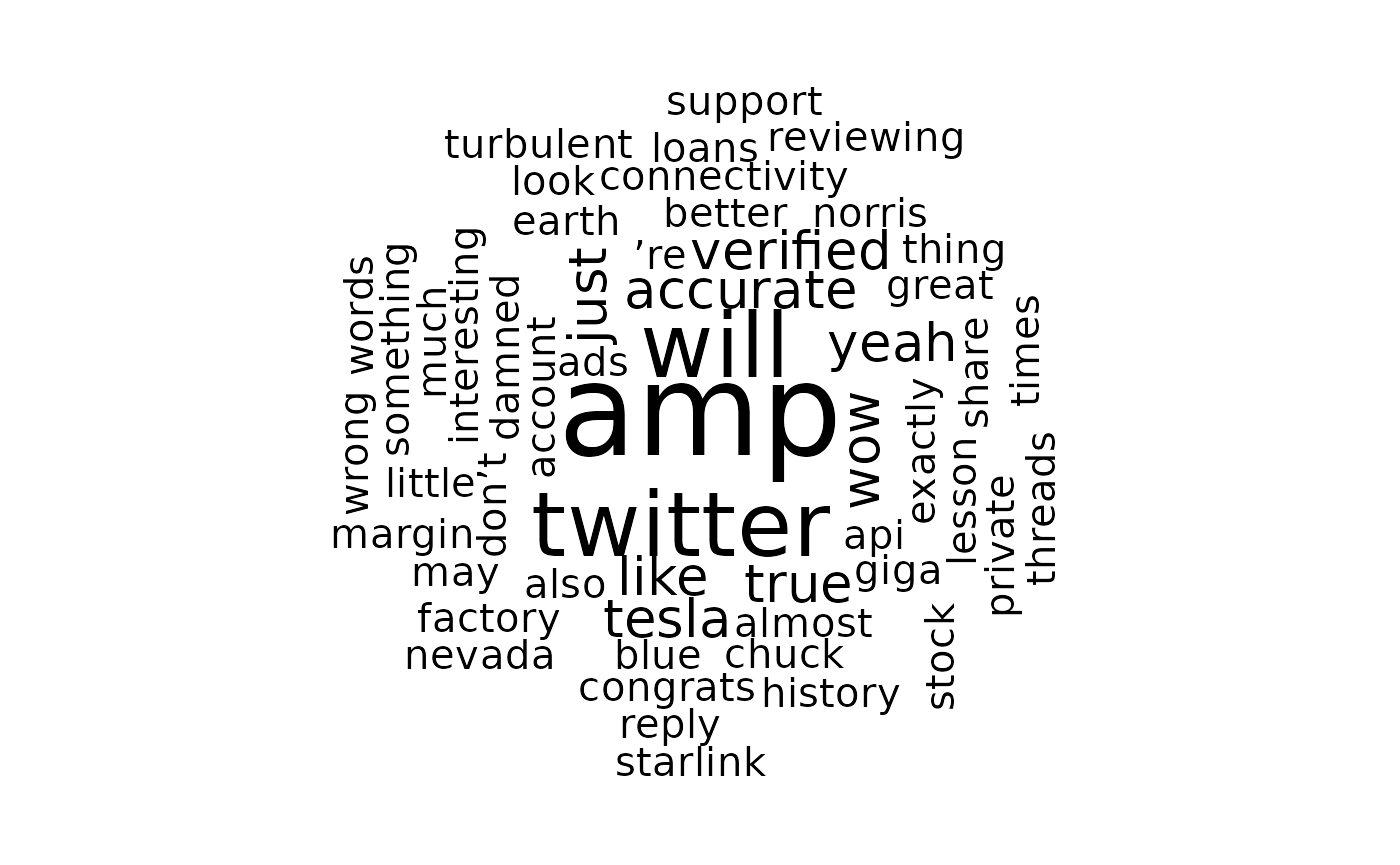
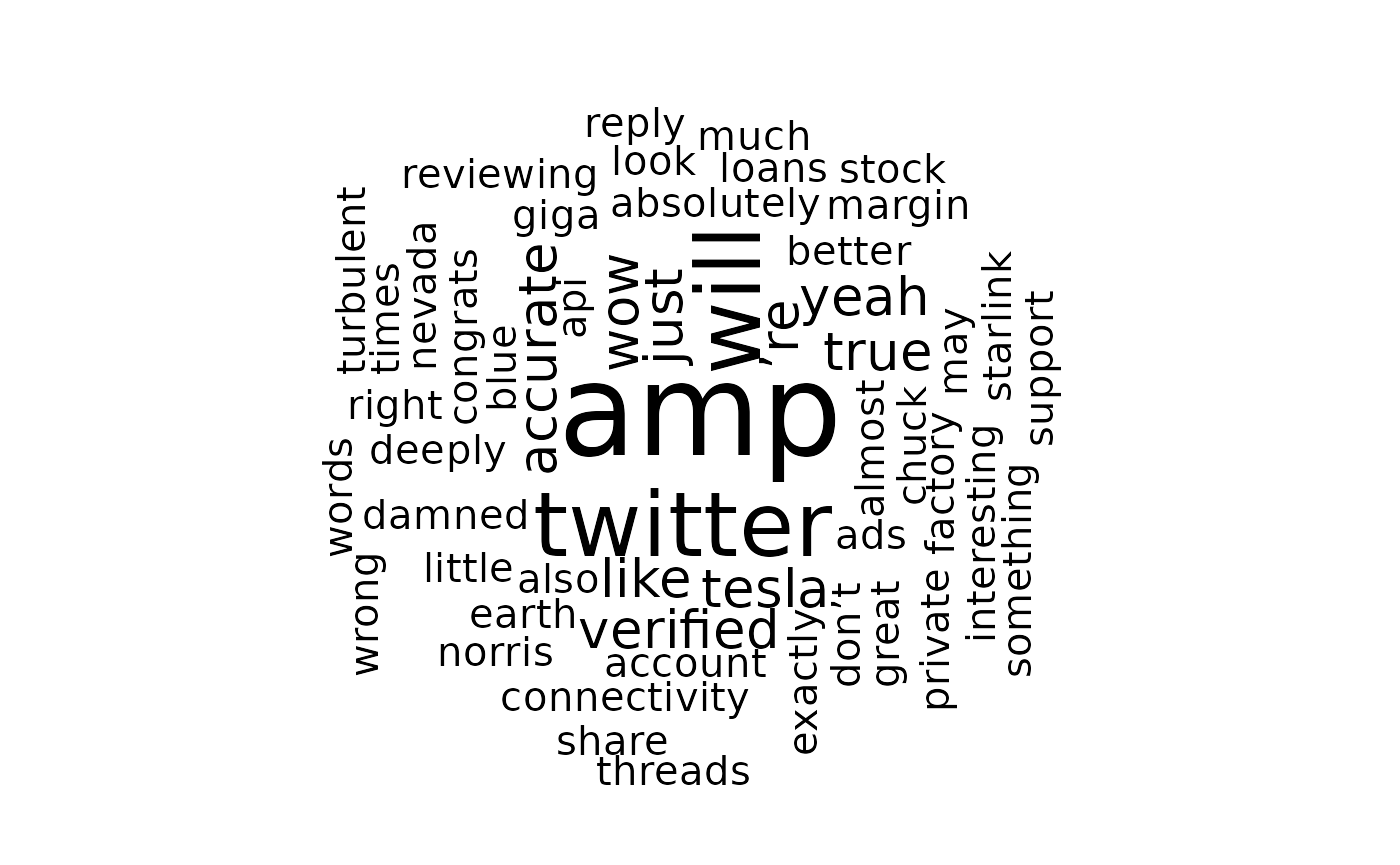
Deploying to gh-pages from @ UBC-MDS/twitterAnalysis@093b3f21f346639ae8859c794773d59e68ed3482 🚀

Changed region(s): [[0.215, 0.0936, 0.7679, 0.9052]]

diff --git a/articles/twitterAnalysis.html b/articles/twitterAnalysis.html
@@ -132,44 +132,44 @@ each other.</p>
 <span><span class="co">#&gt; [1] "Using direct authentication"</span></span>
 <span><span class="fu"><a href="https://rdrr.io/r/utils/head.html" class="external-link">head</a></span><span class="op">(</span><span class="va">elon_df</span><span class="op">)</span></span>
 <span><span class="co">#&gt;   screenName                  id             created favoriteCount retweetCount</span></span>
-<span><span class="co">#&gt; 1   elonmusk 1621555189806399488 2023-02-03 17:04:18         49911         3537</span></span>
-<span><span class="co">#&gt; 2   elonmusk 1621546844882079744 2023-02-03 16:31:09          4188          477</span></span>
-<span><span class="co">#&gt; 3   elonmusk 1621544996167122944 2023-02-03 16:23:48         36125         2701</span></span>
-<span><span class="co">#&gt; 4   elonmusk 1621544497388875777 2023-02-03 16:21:49        170878        16250</span></span>
-<span><span class="co">#&gt; 5   elonmusk 1621532990676533249 2023-02-03 15:36:06         11411          651</span></span>
-<span><span class="co">#&gt; 6   elonmusk 1621426702294609921 2023-02-03 08:33:45          2447          183</span></span>
-<span><span class="co">#&gt;                                                                                                                                           text</span></span>
-<span><span class="co">#&gt; 1 @cb_doge @mayemusk @Tesla @Twitter More to come on this front. Twitter needs to be where a creator is most highly r… https://t.co/4LvNaVOOux</span></span>
-<span><span class="co">#&gt; 2                                @firesideint Twitter’s legacy Blue Verified is unfortunately deeply corrupted, so will sunset in a few months</span></span>
-<span><span class="co">#&gt; 3                                                                    To be eligible, the account must be a subscriber to Twitter Blue Verified</span></span>
-<span><span class="co">#&gt; 4                                       Starting today, Twitter will share ad revenue with creators for ads that appear in their reply threads</span></span>
-<span><span class="co">#&gt; 5                                                                                                                                 @mtaibbi Wow</span></span>
-<span><span class="co">#&gt; 6                         @PepitoTheCat @BillyM2k @ericnakagawa I guess we could give all Verified users access to the API for posts like this</span></span></code></pre></div>
+<span><span class="co">#&gt; 1   elonmusk 1621655873641930752 2023-02-03 23:44:23           503           29</span></span>
+<span><span class="co">#&gt; 2   elonmusk 1621654211908997121 2023-02-03 23:37:47          7381          431</span></span>
+<span><span class="co">#&gt; 3   elonmusk 1621653950947799042 2023-02-03 23:36:45         55097         4495</span></span>
+<span><span class="co">#&gt; 4   elonmusk 1621634735582875648 2023-02-03 22:20:24          4518          219</span></span>
+<span><span class="co">#&gt; 5   elonmusk 1621626697320923136 2023-02-03 21:48:27         24879         1125</span></span>
+<span><span class="co">#&gt; 6   elonmusk 1621555189806399488 2023-02-03 17:04:18         60571         4343</span></span>
+<span><span class="co">#&gt;                                                                                                                                             text</span></span>
+<span><span class="co">#&gt; 1                                                                                                                   @ErikaAwakening You’re right</span></span>
+<span><span class="co">#&gt; 2                                                                                                             @Tesla Manufactured in California!</span></span>
+<span><span class="co">#&gt; 3 Thank goodness, the wisdom of the people has prevailed!\n\nI am deeply appreciative of the jury’s unanimous finding o… https://t.co/fegi6b41Md</span></span>
+<span><span class="co">#&gt; 4                                                                                                                              @Jason Absolutely</span></span>
+<span><span class="co">#&gt; 5                                                                               @cb_doge @Tesla @mayemusk @SpaceX Truth is stranger than fiction</span></span>
+<span><span class="co">#&gt; 6   @cb_doge @mayemusk @Tesla @Twitter More to come on this front. Twitter needs to be where a creator is most highly r… https://t.co/4LvNaVOOux</span></span></code></pre></div>
 <p>Step 3: Preform pre-processing</p>
 <div class="sourceCode" id="cb5"><pre class="downlit sourceCode r">
 <code class="sourceCode R"><span><span class="va">elon_clean_df</span> <span class="op">&lt;-</span> <span class="fu"><a href="../reference/generalPreprocessing.html">generalPreprocessing</a></span><span class="op">(</span><span class="va">elon_df</span><span class="op">)</span></span>
 <span><span class="fu"><a href="https://rdrr.io/r/utils/head.html" class="external-link">head</a></span><span class="op">(</span><span class="va">elon_clean_df</span><span class="op">)</span></span>
 <span><span class="co">#&gt;   screenName                  id             created favoriteCount retweetCount</span></span>
-<span><span class="co">#&gt; 1   elonmusk 1621555189806399488 2023-02-03 17:04:18         49911         3537</span></span>
-<span><span class="co">#&gt; 2   elonmusk 1621546844882079744 2023-02-03 16:31:09          4188          477</span></span>
-<span><span class="co">#&gt; 3   elonmusk 1621544996167122944 2023-02-03 16:23:48         36125         2701</span></span>
-<span><span class="co">#&gt; 4   elonmusk 1621544497388875777 2023-02-03 16:21:49        170878        16250</span></span>
-<span><span class="co">#&gt; 5   elonmusk 1621532990676533249 2023-02-03 15:36:06         11411          651</span></span>
-<span><span class="co">#&gt; 6   elonmusk 1621426702294609921 2023-02-03 08:33:45          2447          183</span></span>
-<span><span class="co">#&gt;                                                                                                                                           text</span></span>
-<span><span class="co">#&gt; 1 @cb_doge @mayemusk @Tesla @Twitter More to come on this front. Twitter needs to be where a creator is most highly r… https://t.co/4LvNaVOOux</span></span>
-<span><span class="co">#&gt; 2                                @firesideint Twitter’s legacy Blue Verified is unfortunately deeply corrupted, so will sunset in a few months</span></span>
-<span><span class="co">#&gt; 3                                                                    To be eligible, the account must be a subscriber to Twitter Blue Verified</span></span>
-<span><span class="co">#&gt; 4                                       Starting today, Twitter will share ad revenue with creators for ads that appear in their reply threads</span></span>
-<span><span class="co">#&gt; 5                                                                                                                                 @mtaibbi Wow</span></span>
-<span><span class="co">#&gt; 6                         @PepitoTheCat @BillyM2k @ericnakagawa I guess we could give all Verified users access to the API for posts like this</span></span>
-<span><span class="co">#&gt;                                                                                               text_clean</span></span>
-<span><span class="co">#&gt; 1                     More to come on this front. Twitter needs to be where a creator is most highly r… </span></span>
-<span><span class="co">#&gt; 2       Twitter’s legacy Blue Verified is unfortunately deeply corrupted, so will sunset in a few months</span></span>
-<span><span class="co">#&gt; 3                              To be eligible, the account must be a subscriber to Twitter Blue Verified</span></span>
-<span><span class="co">#&gt; 4 Starting today, Twitter will share ad revenue with creators for ads that appear in their reply threads</span></span>
-<span><span class="co">#&gt; 5                                                                                                    Wow</span></span>
-<span><span class="co">#&gt; 6                         I guess we could give all Verified users access to the API for posts like this</span></span></code></pre></div>
+<span><span class="co">#&gt; 1   elonmusk 1621655873641930752 2023-02-03 23:44:23           503           29</span></span>
+<span><span class="co">#&gt; 2   elonmusk 1621654211908997121 2023-02-03 23:37:47          7381          431</span></span>
+<span><span class="co">#&gt; 3   elonmusk 1621653950947799042 2023-02-03 23:36:45         55097         4495</span></span>
+<span><span class="co">#&gt; 4   elonmusk 1621634735582875648 2023-02-03 22:20:24          4518          219</span></span>
+<span><span class="co">#&gt; 5   elonmusk 1621626697320923136 2023-02-03 21:48:27         24879         1125</span></span>
+<span><span class="co">#&gt; 6   elonmusk 1621555189806399488 2023-02-03 17:04:18         60571         4343</span></span>
+<span><span class="co">#&gt;                                                                                                                                             text</span></span>
+<span><span class="co">#&gt; 1                                                                                                                   @ErikaAwakening You’re right</span></span>
+<span><span class="co">#&gt; 2                                                                                                             @Tesla Manufactured in California!</span></span>
+<span><span class="co">#&gt; 3 Thank goodness, the wisdom of the people has prevailed!\n\nI am deeply appreciative of the jury’s unanimous finding o… https://t.co/fegi6b41Md</span></span>
+<span><span class="co">#&gt; 4                                                                                                                              @Jason Absolutely</span></span>
+<span><span class="co">#&gt; 5                                                                               @cb_doge @Tesla @mayemusk @SpaceX Truth is stranger than fiction</span></span>
+<span><span class="co">#&gt; 6   @cb_doge @mayemusk @Tesla @Twitter More to come on this front. Twitter needs to be where a creator is most highly r… https://t.co/4LvNaVOOux</span></span>
+<span><span class="co">#&gt;                                                                                                                text_clean</span></span>
+<span><span class="co">#&gt; 1                                                                                                            You’re right</span></span>
+<span><span class="co">#&gt; 2                                                                                             Manufactured in California!</span></span>
+<span><span class="co">#&gt; 3 Thank goodness, the wisdom of the people has prevailed!\n\nI am deeply appreciative of the jury’s unanimous finding o… </span></span>
+<span><span class="co">#&gt; 4                                                                                                              Absolutely</span></span>
+<span><span class="co">#&gt; 5                                                                                          Truth is stranger than fiction</span></span>
+<span><span class="co">#&gt; 6                                      More to come on this front. Twitter needs to be where a creator is most highly r…</span></span></code></pre></div>
 <p>Step 4: Preform Sentiment Analysis</p>
 <div class="sourceCode" id="cb6"><pre class="downlit sourceCode r">
 <code class="sourceCode R"><span><span class="va">elon_sentiment_df</span> <span class="op">&lt;-</span> <span class="fu"><a href="../reference/sentiment_labeler.html">sentiment_labeler</a></span><span class="op">(</span><span class="va">elon_clean_df</span>, <span class="st">'text'</span><span class="op">)</span></span>
@@ -179,33 +179,33 @@ each other.</p>
 <span><span class="co">#&gt;   Please report the issue to the authors.</span></span>
 <span><span class="fu"><a href="https://rdrr.io/r/utils/head.html" class="external-link">head</a></span><span class="op">(</span><span class="va">elon_sentiment_df</span><span class="op">)</span></span>
 <span><span class="co">#&gt;   screenName                  id             created favoriteCount retweetCount</span></span>
-<span><span class="co">#&gt; 1   elonmusk 1621555189806399488 2023-02-03 17:04:18         49911         3537</span></span>
-<span><span class="co">#&gt; 2   elonmusk 1621546844882079744 2023-02-03 16:31:09          4188          477</span></span>
-<span><span class="co">#&gt; 3   elonmusk 1621544996167122944 2023-02-03 16:23:48         36125         2701</span></span>
-<span><span class="co">#&gt; 4   elonmusk 1621544497388875777 2023-02-03 16:21:49        170878        16250</span></span>
-<span><span class="co">#&gt; 5   elonmusk 1621532990676533249 2023-02-03 15:36:06         11411          651</span></span>
-<span><span class="co">#&gt; 6   elonmusk 1621426702294609921 2023-02-03 08:33:45          2447          183</span></span>
-<span><span class="co">#&gt;                                                                                                                                           text</span></span>
-<span><span class="co">#&gt; 1 @cb_doge @mayemusk @Tesla @Twitter More to come on this front. Twitter needs to be where a creator is most highly r… https://t.co/4LvNaVOOux</span></span>
-<span><span class="co">#&gt; 2                                @firesideint Twitter’s legacy Blue Verified is unfortunately deeply corrupted, so will sunset in a few months</span></span>
-<span><span class="co">#&gt; 3                                                                    To be eligible, the account must be a subscriber to Twitter Blue Verified</span></span>
-<span><span class="co">#&gt; 4                                       Starting today, Twitter will share ad revenue with creators for ads that appear in their reply threads</span></span>
-<span><span class="co">#&gt; 5                                                                                                                                 @mtaibbi Wow</span></span>
-<span><span class="co">#&gt; 6                         @PepitoTheCat @BillyM2k @ericnakagawa I guess we could give all Verified users access to the API for posts like this</span></span>
-<span><span class="co">#&gt;                                                                                               text_clean</span></span>
-<span><span class="co">#&gt; 1                     More to come on this front. Twitter needs to be where a creator is most highly r… </span></span>
-<span><span class="co">#&gt; 2       Twitter’s legacy Blue Verified is unfortunately deeply corrupted, so will sunset in a few months</span></span>
-<span><span class="co">#&gt; 3                              To be eligible, the account must be a subscriber to Twitter Blue Verified</span></span>
-<span><span class="co">#&gt; 4 Starting today, Twitter will share ad revenue with creators for ads that appear in their reply threads</span></span>
-<span><span class="co">#&gt; 5                                                                                                    Wow</span></span>
-<span><span class="co">#&gt; 6                         I guess we could give all Verified users access to the API for posts like this</span></span>
+<span><span class="co">#&gt; 1   elonmusk 1621655873641930752 2023-02-03 23:44:23           503           29</span></span>
+<span><span class="co">#&gt; 2   elonmusk 1621654211908997121 2023-02-03 23:37:47          7381          431</span></span>
+<span><span class="co">#&gt; 3   elonmusk 1621653950947799042 2023-02-03 23:36:45         55097         4495</span></span>
+<span><span class="co">#&gt; 4   elonmusk 1621634735582875648 2023-02-03 22:20:24          4518          219</span></span>
+<span><span class="co">#&gt; 5   elonmusk 1621626697320923136 2023-02-03 21:48:27         24879         1125</span></span>
+<span><span class="co">#&gt; 6   elonmusk 1621555189806399488 2023-02-03 17:04:18         60571         4343</span></span>
+<span><span class="co">#&gt;                                                                                                                                             text</span></span>
+<span><span class="co">#&gt; 1                                                                                                                   @ErikaAwakening You’re right</span></span>
+<span><span class="co">#&gt; 2                                                                                                             @Tesla Manufactured in California!</span></span>
+<span><span class="co">#&gt; 3 Thank goodness, the wisdom of the people has prevailed!\n\nI am deeply appreciative of the jury’s unanimous finding o… https://t.co/fegi6b41Md</span></span>
+<span><span class="co">#&gt; 4                                                                                                                              @Jason Absolutely</span></span>
+<span><span class="co">#&gt; 5                                                                               @cb_doge @Tesla @mayemusk @SpaceX Truth is stranger than fiction</span></span>
+<span><span class="co">#&gt; 6   @cb_doge @mayemusk @Tesla @Twitter More to come on this front. Twitter needs to be where a creator is most highly r… https://t.co/4LvNaVOOux</span></span>
+<span><span class="co">#&gt;                                                                                                                text_clean</span></span>
+<span><span class="co">#&gt; 1                                                                                                            You’re right</span></span>
+<span><span class="co">#&gt; 2                                                                                             Manufactured in California!</span></span>
+<span><span class="co">#&gt; 3 Thank goodness, the wisdom of the people has prevailed!\n\nI am deeply appreciative of the jury’s unanimous finding o… </span></span>
+<span><span class="co">#&gt; 4                                                                                                              Absolutely</span></span>
+<span><span class="co">#&gt; 5                                                                                          Truth is stranger than fiction</span></span>
+<span><span class="co">#&gt; 6                                      More to come on this front. Twitter needs to be where a creator is most highly r… </span></span>
 <span><span class="co">#&gt;   sentiment</span></span>
 <span><span class="co">#&gt; 1   neutral</span></span>
-<span><span class="co">#&gt; 2  positive</span></span>
+<span><span class="co">#&gt; 2   neutral</span></span>
 <span><span class="co">#&gt; 3  positive</span></span>
-<span><span class="co">#&gt; 4  positive</span></span>
+<span><span class="co">#&gt; 4   neutral</span></span>
 <span><span class="co">#&gt; 5   neutral</span></span>
-<span><span class="co">#&gt; 6  positive</span></span></code></pre></div>
+<span><span class="co">#&gt; 6   neutral</span></span></code></pre></div>
 <p>Step 5: Generate a WordCloud</p>
 <div class="sourceCode" id="cb7"><pre class="downlit sourceCode r">
 <code class="sourceCode R"><span><span class="va">elon_plt_clean_df</span> <span class="op">&lt;-</span> <span class="fu"><a href="../reference/clean_tweets.html">clean_tweets</a></span><span class="op">(</span><span class="va">elon_sentiment_df</span><span class="op">)</span></span>
@@ -218,13 +218,13 @@ tweets with <code><a href="../reference/count_tweets.html">count_tweets()</a></c
 <div class="sourceCode" id="cb8"><pre class="downlit sourceCode r">
 <code class="sourceCode R"><span><span class="fu"><a href="../reference/count_tweets.html">count_tweets</a></span><span class="op">(</span><span class="va">elon_sentiment_df</span><span class="op">)</span></span>
 <span><span class="co">#&gt; $negative</span></span>
-<span><span class="co">#&gt; [1] 0.1134021</span></span>
+<span><span class="co">#&gt; [1] 0.1041667</span></span>
 <span><span class="co">#&gt; </span></span>
 <span><span class="co">#&gt; $neutral</span></span>
-<span><span class="co">#&gt; [1] 0.6494845</span></span>
+<span><span class="co">#&gt; [1] 0.65625</span></span>
 <span><span class="co">#&gt; </span></span>
 <span><span class="co">#&gt; $positive</span></span>
-<span><span class="co">#&gt; [1] 0.2371134</span></span></code></pre></div>
+<span><span class="co">#&gt; [1] 0.2395833</span></span></code></pre></div>
 </div>
   </main><aside class="col-md-3"><nav id="toc"><h2>On this page</h2>
     </nav></aside>
